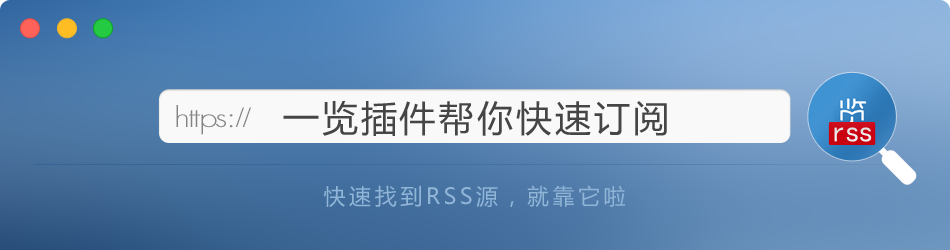
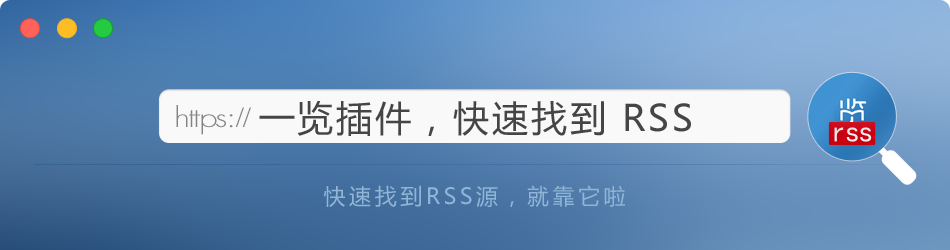
blog update

Changed region(s): [[0.2747, 0.392, 0.7326, 0.56]]

diff --git a/_posts/2016-05-31-chrome-plugin-find-rss.md b/_posts/2016-05-31-chrome-plugin-find-rss.md
@@ -1,8 +1,8 @@
 ---
 layout:     post
-title:      "用「一览插件」快速找到 RSS"
-subtitle:   ""
-date:       2016-05-30
+title:      "快速找到RSS源，就靠它啦"
+subtitle:   "「一览」浏览器插件，快速找到 RSS"
+date:       2016-05-31
 author:     "Wizos"
 tags:
     - 账号
